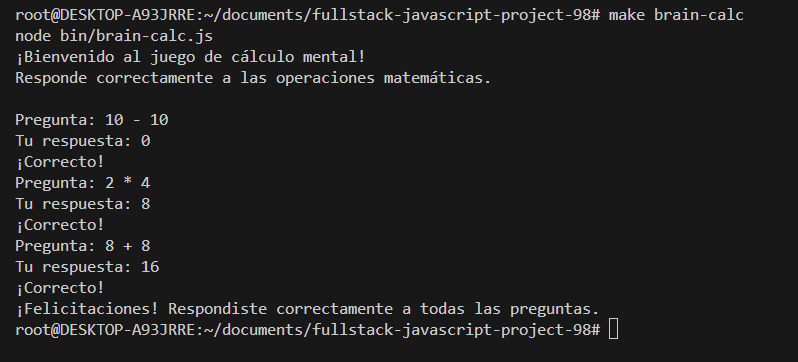
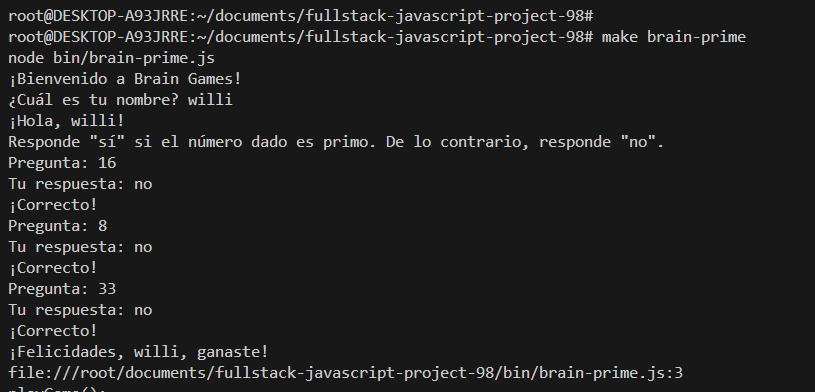
correccion de archivos

Changed region(s): [[0.0, 0.0, 0.9323, 1.0]]

diff --git a/src/brain-prime.js b/src/brain-prime.js
@@ -1,34 +1,39 @@
 import readlineSync from 'readline-sync';
 
-const isPrime = (num) => {
+const esPrimo = (num) => {
   if (num < 2) return false;
   for (let i = 2; i <= Math.sqrt(num); i++) {
     if (num % i === 0) return false;
   }
   return true;
 };
-const playBrainPrime = () => {
-  console.log('Welcome to the Brain Prime Game!');
-  console.log('Answer "yes" if the number is prime. Otherwise answer "no".');
 
-  const rounds = 3;
-  for (let i = 0; i < rounds; i++) {
-    const number = Math.floor(Math.random() * 100) + 1;
-    const correctAnswer = isPrime(number) ? 'yes' : 'no';
+const jugarBrainPrime = () => {
+  console.log('¡Bienvenido a Brain Games!');
+  const nombre = readlineSync.question('¿Cuál es tu nombre? ');
+  console.log(`¡Hola, ${nombre}!`);
 
-    console.log(`Question: ${number}`);
-    const userAnswer = readlineSync.question('Your answer: ').toLowerCase();
+  console.log('Responde "sí" si el número dado es primo. De lo contrario, responde "no".');
 
-    if (userAnswer !== correctAnswer) {
-      console.log(`'${userAnswer}' is wrong ;(. Correct answer was '${correctAnswer}'.`);
-      console.log('Let\'s try again!');
+  const rondas = 3;
+  for (let i = 0; i < rondas; i++) {
+    const numero = Math.floor(Math.random() * 100) + 1;
+    const respuestaCorrecta = esPrimo(numero) ? 'sí' : 'no';
+
+    console.log(`Pregunta: ${numero}`);
+    const respuestaUsuario = readlineSync.question('Tu respuesta: ').toLowerCase();
+
+    if (respuestaUsuario !== respuestaCorrecta) {
+      console.log(`'${respuestaUsuario}' es incorrecto ;(. La respuesta correcta era '${respuestaCorrecta}'.`);
+      console.log(`¡Intentémoslo de nuevo, ${nombre}!`);
       return;
     }
 
-    console.log('Correct!');
+    console.log('¡Correcto!');
+    
   }
 
-  console.log('Congratulations, you won!');
+  console.log(`¡Felicidades, ${nombre}, ganaste!`);
 };
 
-export default playBrainPrime();
+export default jugarBrainPrime();

diff --git a/src/brain-gcd.js b/src/brain-gcd.js
@@ -1,6 +1,5 @@
 import readlineSync from 'readline-sync';
 
-// Función para calcular el MCD (Máximo Común Divisor) de dos números
 function getGCD(a, b) {
   while (b !== 0) {
     let temp = b;
@@ -9,13 +8,10 @@ function getGCD(a, b) {
   }
   return a;
 }
-
-// Función para generar un número aleatorio entre un rango
 function getRandomNumber(min, max) {
   return Math.floor(Math.random() * (max - min + 1)) + min;
 }
 
-// Función principal para el juego de MCD
 function runBrainGCD() {
   console.log('¡Bienvenido a Brain Games!');
   const userName = readlineSync.question('¿Cuál es tu nombre? ');

diff --git a/README.md b/README.md
@@ -27,3 +27,6 @@ Este es un juego de matemáticas simple donde tienes que resolver sumas aleatori
 ![alt text](image-3.png) ejercicio brain-progression
 
 ![alt text](image-4.png) ejercicio brain-prime
+
+![alt text](image.png) ejercicio brain-prime
+
